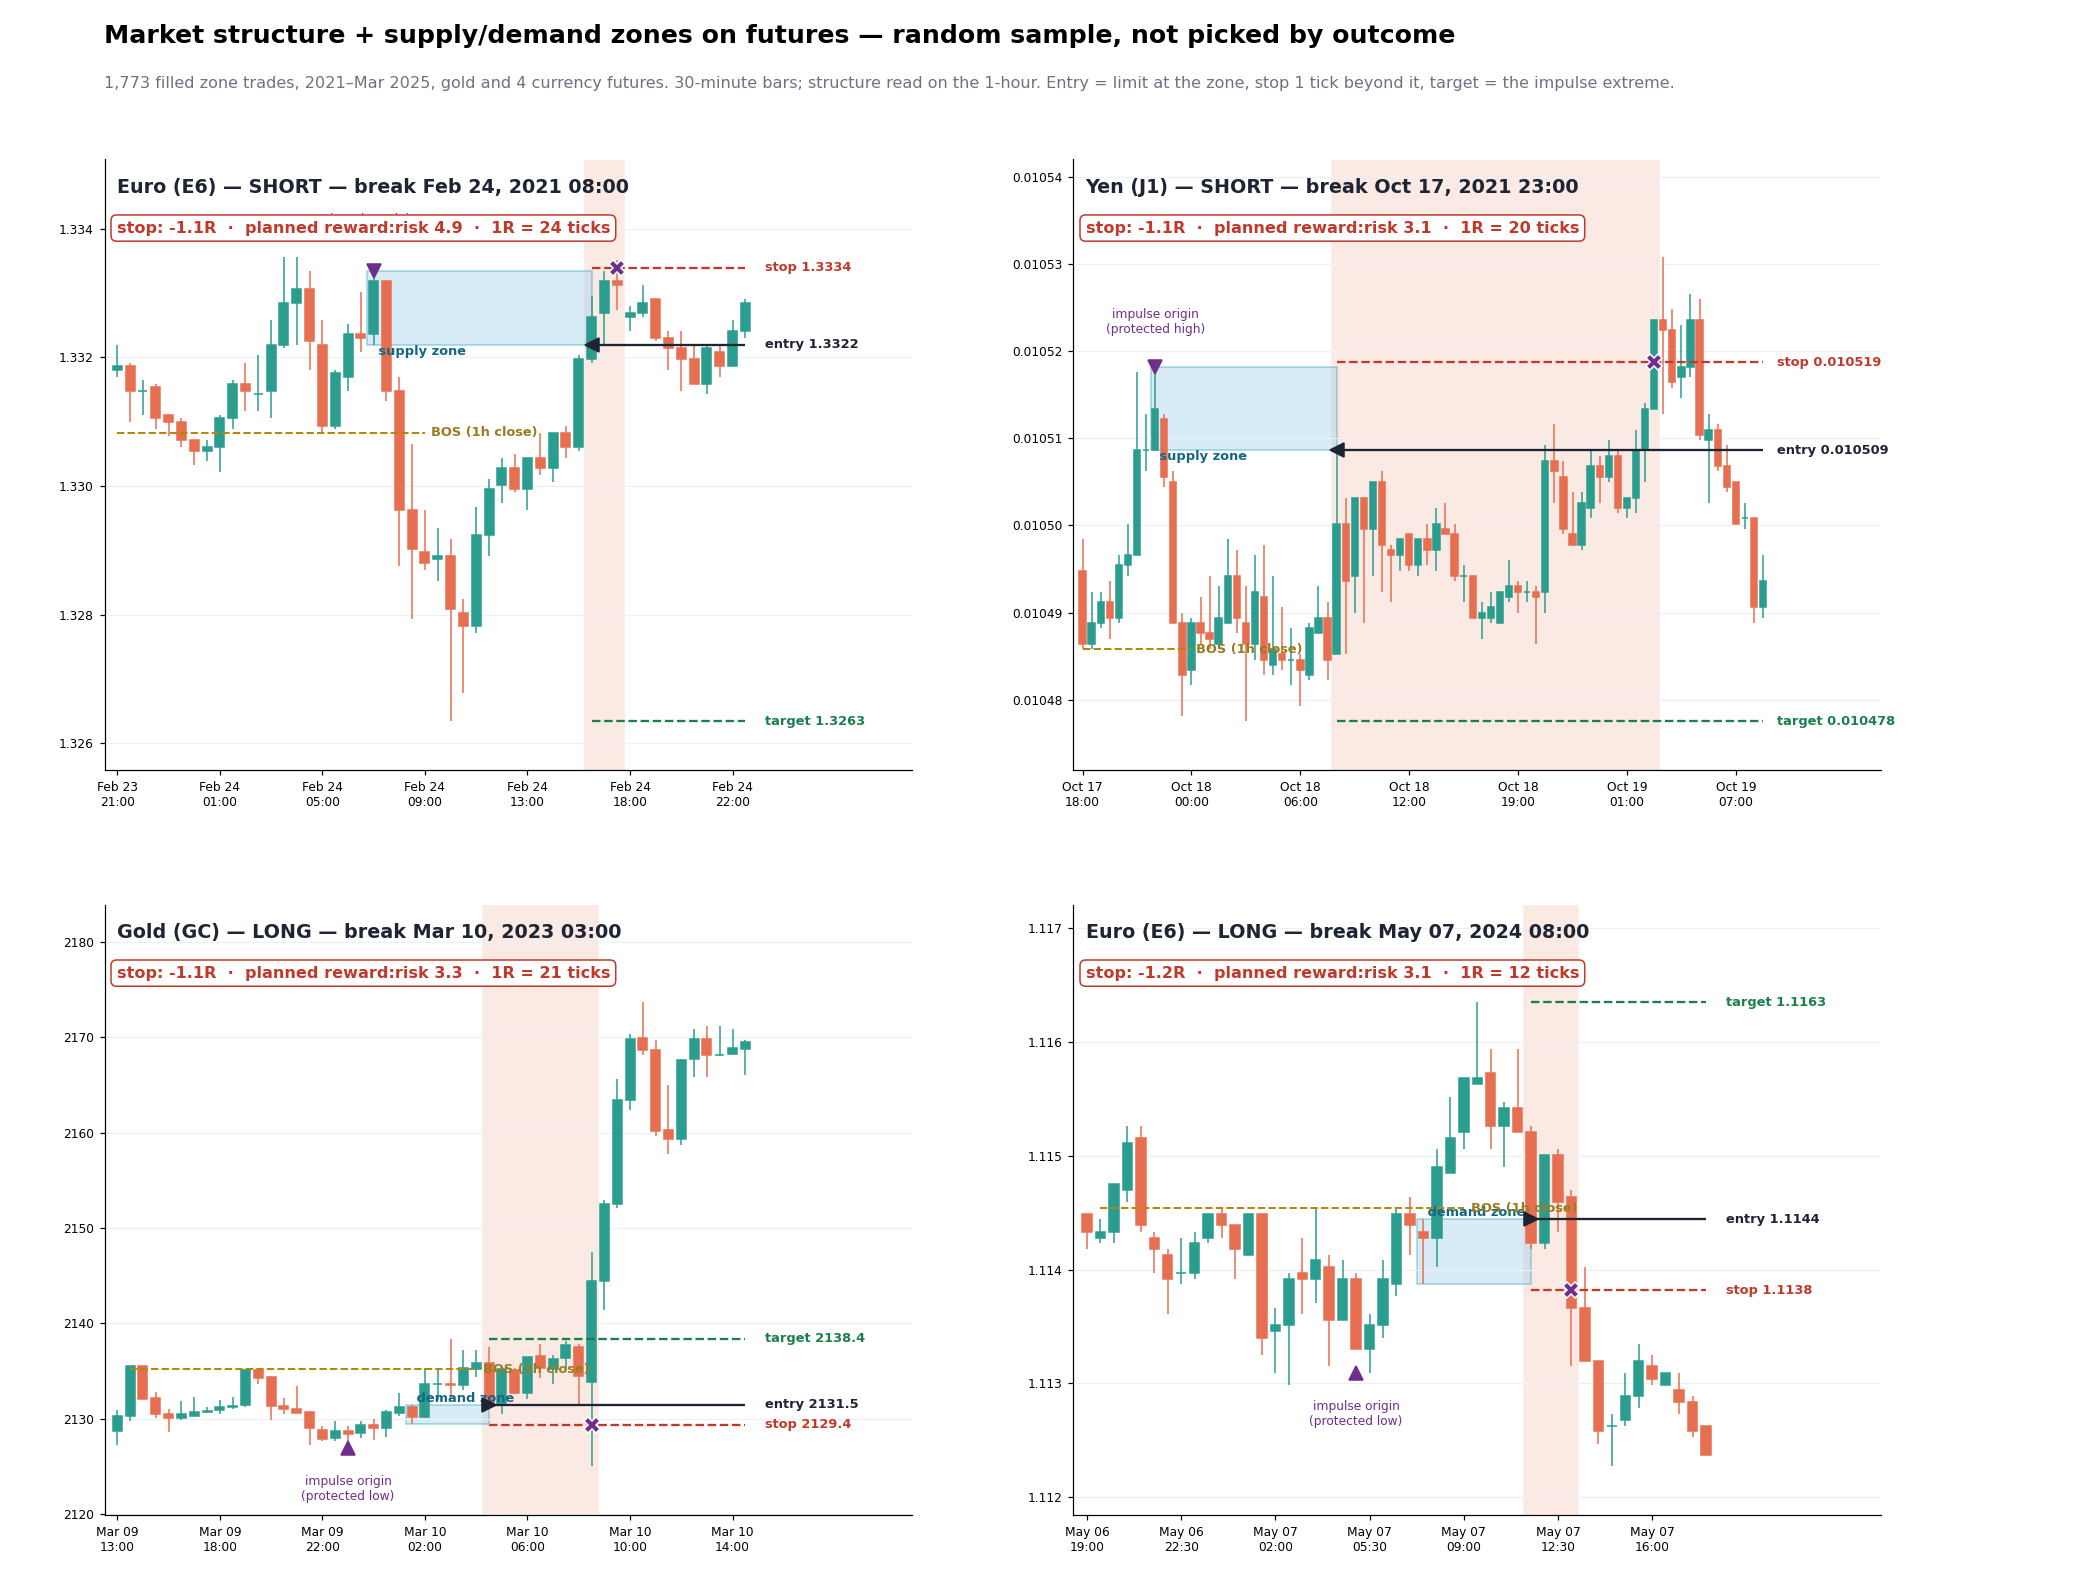
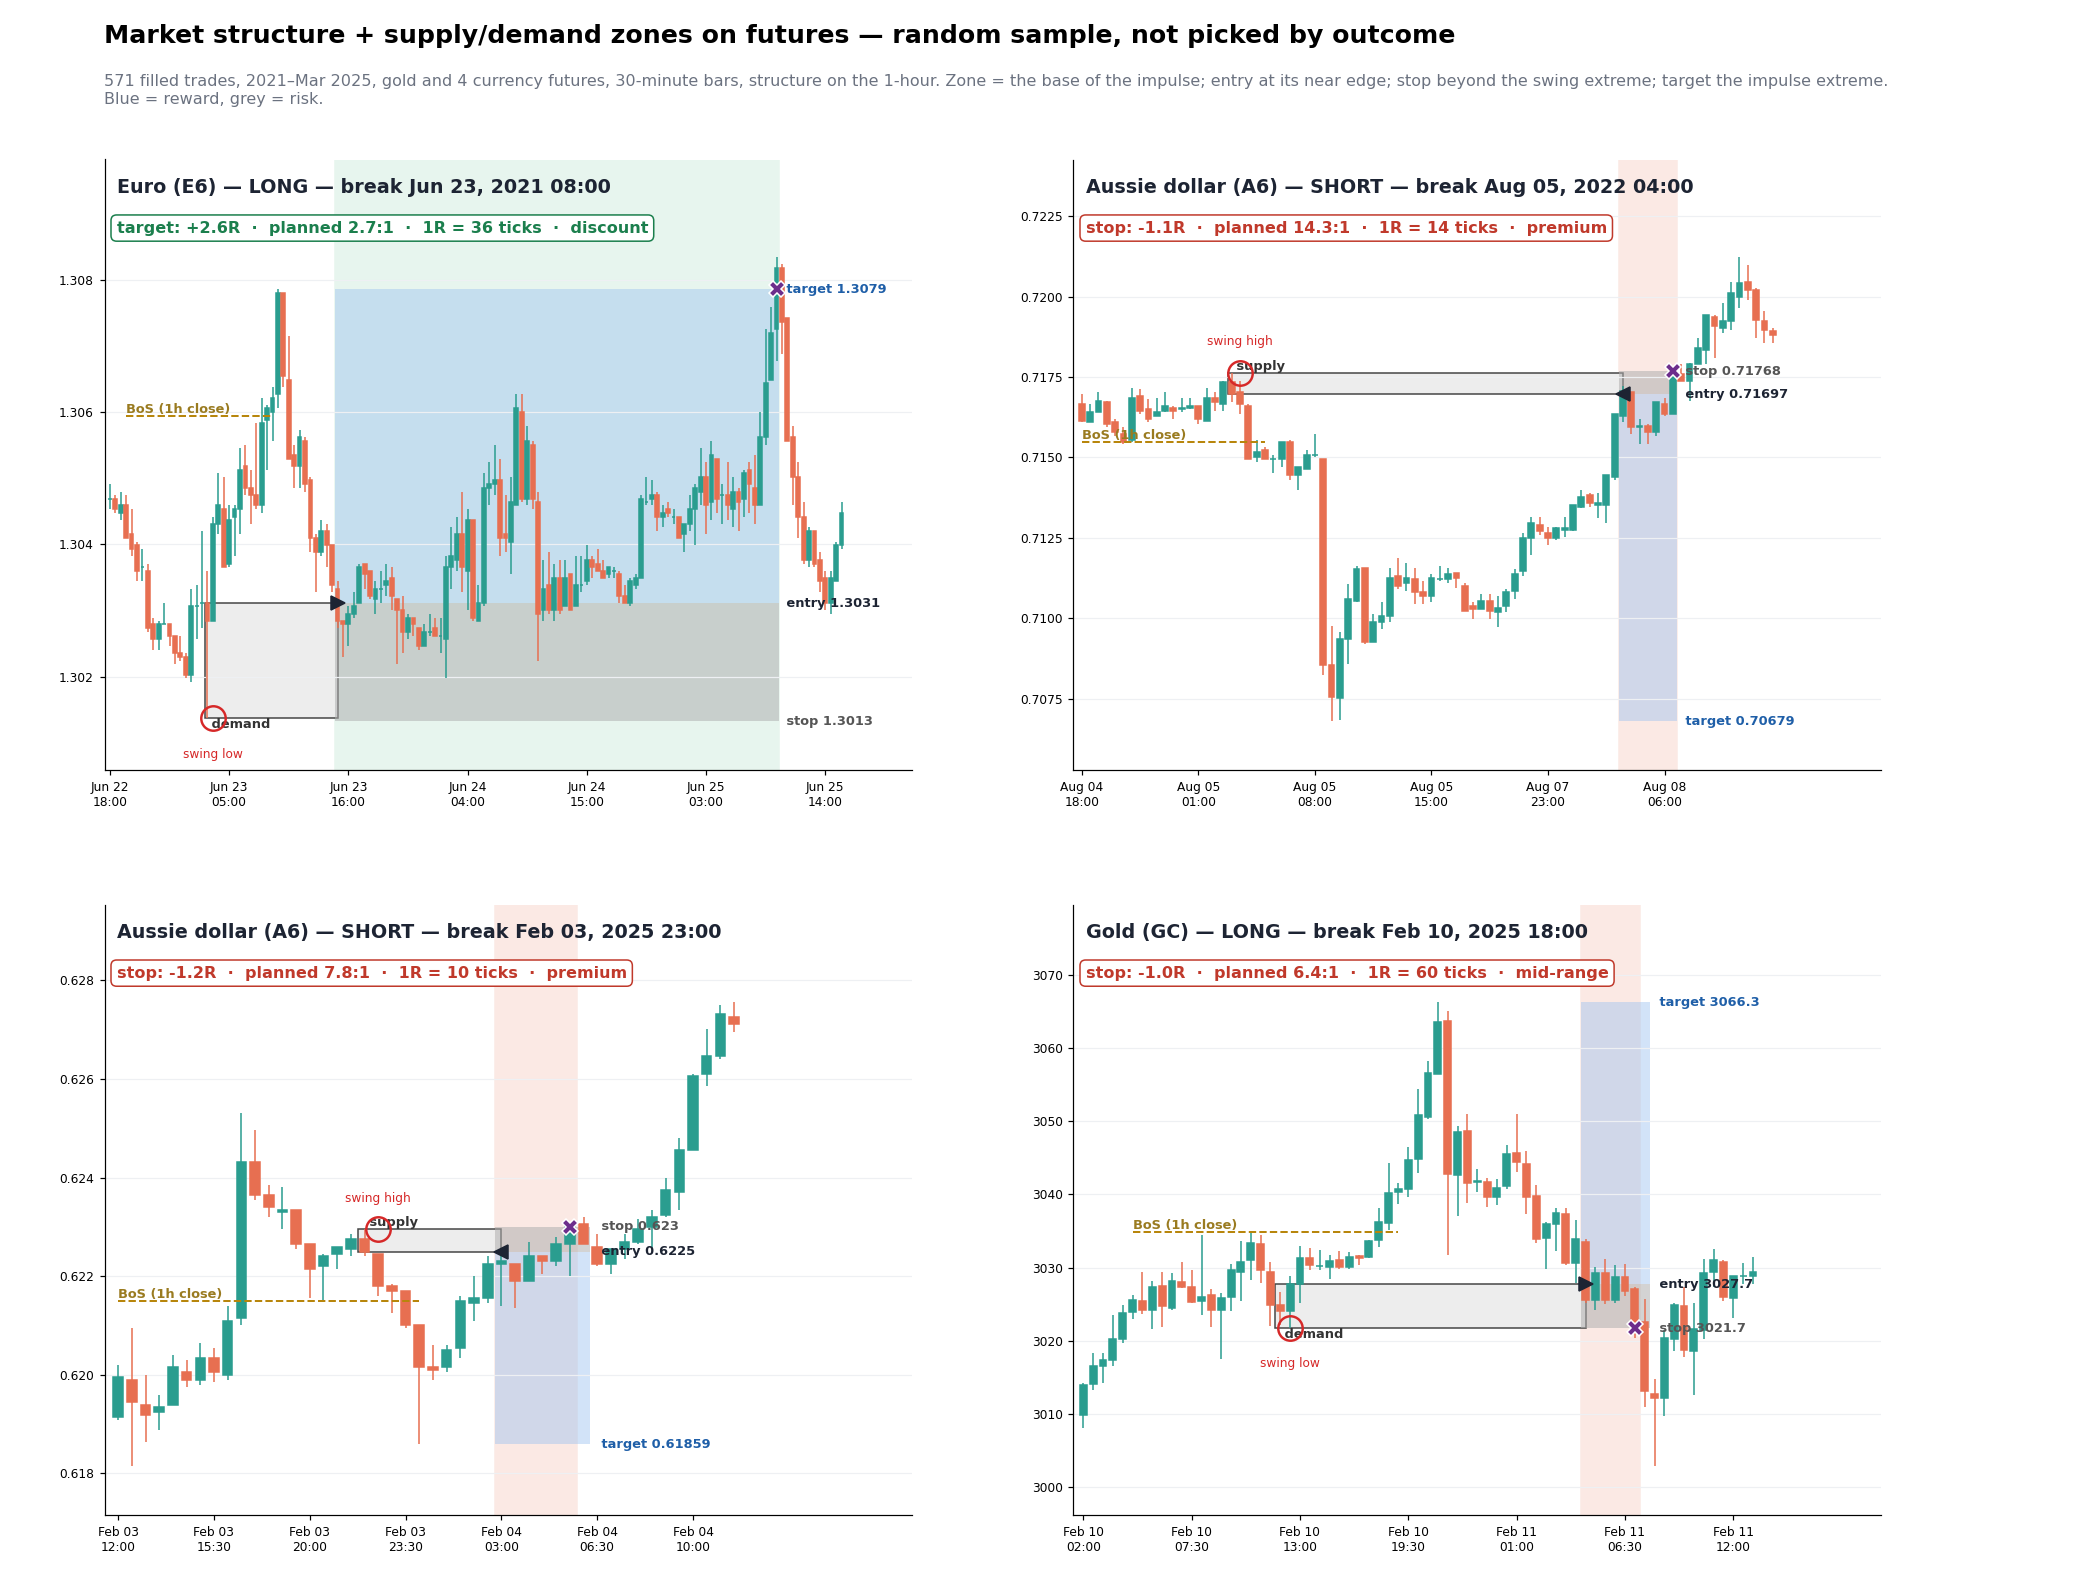
Put zones at the base of the impulse and stops beyond the swing, as in his charts
Screenshots from the user's source showed the zone is the candles at the swing
extreme that launched the impulse, boxed to the top of their bodies, with the
stop beyond that extreme and the target at the opposing structure. The first
version picked the last opposite candle anywhere inside the impulse, which put
entries mid-move with stops inside the structure.

Records his context marks (a sweep of the prior 48-hour extreme at the origin,
premium or discount) for later splits, and redraws the sample with his
position-tool style.

Claude-Session: https://claude.ai/code/session_016Vss3YrFibJsdW1CZprFVg

diff --git a/explore_fut/structure.py b/explore_fut/structure.py
@@ -8,11 +8,12 @@ York time (the missing hour is the 17:00 CME break).
              In an uptrend only a close below the protected low (the low that
              launched the last bullish impulse) flips the trend; smaller breaks are
              internal structure and ignored. Mirror for downtrends.
-  zone     : on 30-minute bars inside that impulse, the last opposite-colour candle
-             whose next candles left an unfilled gap (the 3-candle imbalance) and
-             which price has not revisited by the break
-  trade    : limit at the zone's near edge, filled on EVERY touch (5-minute bars),
-             stop 1 tick beyond the zone's far edge, target the impulse extreme at
+  zone     : the BASE of the impulse on 30-minute bars -- the candle at its swing
+             extreme plus the one before, boxed from the extreme to the top of their
+             bodies; valid if the move away left a 3-candle imbalance and price has
+             not come back into the box by the break
+  trade    : limit at the box's near edge, filled on EVERY touch (5-minute bars),
+             stop 1 tick beyond the swing extreme, target the impulse extreme at
              fill time; valid until the trend flips or 5 days pass; 10-day limit
   cost     : 2 ticks round trip
 
@@ -66,17 +67,39 @@ def structure(h1):
     return ev
 
 def zone(m30, t_from, t_to, side):
-    """last opposite-colour 30m candle in [t_from, t_to] with a 3-candle imbalance after it,
-    not revisited before t_to."""
+    """The BASE of the impulse, as in his charts: the 30-minute candle at the impulse's
+    extreme (the swing low for a long) plus the candle before it. Box = from that
+    extreme to the top of those candles' bodies. Valid only if the move away left a
+    3-candle imbalance within the next 3 candles and price has not come back into the
+    box by the break. -> (base time, (near edge, far edge)) or None"""
     w = m30.loc[t_from:t_to]
+    if len(w) < 4: return None
     o, h, l, c = w.open.values, w.high.values, w.low.values, w.close.values
-    for z in range(len(w) - 3, -1, -1):
-        opp = c[z] < o[z] if side > 0 else c[z] > o[z]
-        gap = (l[z + 2] > h[z]) if side > 0 else (h[z + 2] < l[z])
-        untouched = (l[z + 2:].min() > h[z]) if side > 0 else (h[z + 2:].max() < l[z])   # from the gap candle on
-        if opp and gap and untouched:
-            return w.index[z], (h[z], l[z]) if side > 0 else (l[z], h[z])   # (near edge, far edge)
-    return None
+    k = int(np.argmin(l)) if side > 0 else int(np.argmax(h))            # the swing extreme
+    if k + 3 >= len(w): return None
+    base = [x for x in (k - 1, k) if x >= 0]
+    if side > 0:
+        near, far = max(max(o[x], c[x]) for x in base), l[k]
+        gap = any(l[x + 2] > h[x] for x in range(k, min(k + 3, len(w) - 2)))
+        clean = l[k + 2:].min() > near
+    else:
+        near, far = min(min(o[x], c[x]) for x in base), h[k]
+        gap = any(h[x + 2] < l[x] for x in range(k, min(k + 3, len(w) - 2)))
+        clean = h[k + 2:].max() < near
+    if not (gap and clean and (near - far) * side > 0): return None
+    return w.index[base[0]], (near, far)
+
+def context(h1, j, p, side):
+    """his context marks, recorded for later splits (not filters yet):
+    swept  -- the impulse origin took out the prior 48 hours' extreme and closed back inside
+    cheap  -- the origin sits in the discount half (long) / premium half (short) of the prior 5 days' range"""
+    H, L, C = h1.high.values, h1.low.values, h1.close.values
+    lo48, hi48 = L[max(0, p - 48):p].min() if p > 0 else np.nan, H[max(0, p - 48):p].max() if p > 0 else np.nan
+    swept = (L[p] < lo48 and C[p] > lo48) if side > 0 else (H[p] > hi48 and C[p] < hi48)
+    r_lo, r_hi = L[max(0, p - 120):p + 1].min(), H[max(0, p - 120):p + 1].max()
+    mid = (r_lo + r_hi) / 2
+    cheap = (L[p] < mid) if side > 0 else (H[p] > mid)
+    return bool(swept), bool(cheap)
 
 def main():
     data = load(); print(f"loaded {len(data)} symbols  ({time.time()-t0:.0f}s)", flush=True)
@@ -97,7 +120,7 @@ def main():
             if not touch.any(): rows.append(dict(sym=s, bos=idx1[j], side=side, filled=False)); continue
             ft = touch.idxmax(); fo = after.loc[ft, "open"]
             entry = min(near, fo) if side > 0 else max(near, fo)
-            stop = far - tk if side > 0 else far + tk
+            stop = far - tk if side > 0 else far + tk                  # beyond the swing extreme itself
             R = (entry - stop) * side
             ext = m5.loc[idx1[p]:ft]; target = ext.high.max() if side > 0 else ext.low.min()
             path = m5.loc[ft:ft + pd.Timedelta("10D")]
@@ -107,7 +130,8 @@ def main():
                     px, how, xt = (min(stop, b.open) if side > 0 else max(stop, b.open)), "stop", t_; break
                 if t_ > ft and ((b.high >= target) if side > 0 else (b.low <= target)):
                     px, how, xt = target, "target", t_; break
-            rows.append(dict(sym=s, bos=idx1[j], side=side, filled=True, zone_t=zt, near=near, far=far, fill_t=ft,
+            swept, cheap = context(h1, j, p, side)
+            rows.append(dict(sym=s, bos=idx1[j], side=side, filled=True, zone_t=zt, near=near, far=far, fill_t=ft, swept=swept, cheap=cheap,
                              entry=entry, stop=stop, target=target, R_ticks=R / tk, rr=(target - entry) * side / R,
                              exit_t=xt, how=how, R=((px - entry) * side - 2 * tk) / R, origin=idx1[p], protected=prot, level=lvl))
         print(f"  {s}: {len(ev)} breaks of structure, {sum(1 for r in rows if r['sym']==s and r['filled'])} zone fills  ({time.time()-t0:.0f}s)", flush=True)

diff --git a/explore_fut/render.py b/explore_fut/render.py
@@ -29,27 +29,31 @@ for n, ev in enumerate(pick.itertuples()):
     ax.axvspan(X(ev.fill_t) - .5, X(ev.exit_t) + .5, color="#e7f5ee" if win else "#fbe9e4", zorder=0)
     zx0, zx1 = X(ev.zone_t), X(ev.fill_t)
     lo_, hi_ = sorted([ev.near, ev.far])
-    ax.add_patch(Rectangle((zx0 - .5, lo_), max(zx1 - zx0, 1) + .5, hi_ - lo_, facecolor="#8ecae6", alpha=.35, edgecolor="#219ebc", lw=1.2, zorder=1))
-    ax.text(zx0, hi_ if side > 0 else lo_, " demand zone" if side > 0 else " supply zone", fontsize=8.5, color="#126782",
-            va="bottom" if side > 0 else "top", fontweight="bold")
+    ax.add_patch(Rectangle((zx0 - .5, lo_), max(zx1 - zx0, 1) + .5, hi_ - lo_, facecolor="#ececec", alpha=.9, edgecolor="#333", lw=1, zorder=1))
+    ax.text(zx0, lo_ if side > 0 else hi_, " demand" if side > 0 else " supply", fontsize=8.5, color="#333",
+            va="top" if side > 0 else "bottom", fontweight="bold")
     bx = X(ev.bos)
     ax.hlines(ev.level, max(0, bx - 25), bx + 2, color="#b8860b", lw=1.3, ls="--", zorder=4)
-    ax.text(bx + 2.5, ev.level, "BOS (1h close)", fontsize=8.5, color="#9a7b20", va="center", fontweight="bold")
-    ax.plot(X(ev.origin), ev.protected, marker="^" if side > 0 else "v", color="#6d2e8c", ms=9, zorder=5)
-    ax.annotate("impulse origin\n(protected " + ("low" if side > 0 else "high") + ")", (X(ev.origin), ev.protected),
-                xytext=(0, -34 if side > 0 else 22), textcoords="offset points", ha="center", fontsize=8, color="#6d2e8c")
+    ax.text(max(0, bx - 25), ev.level, "BoS (1h close) ", fontsize=8.5, color="#9a7b20", va="bottom", fontweight="bold")
+    ext_x = X(ev.zone_t) + 1
+    ax.plot(ext_x, ev.far, "o", ms=16, mfc="none", mec="#d62828", mew=1.6, zorder=6)
+    ax.annotate(("swept low" if ev.swept else "swing low") if side > 0 else ("swept high" if ev.swept else "swing high"),
+                (ext_x, ev.far), xytext=(0, -26 if side > 0 else 18), textcoords="offset points", ha="center", fontsize=8, color="#d62828")
     fx, xx = X(ev.fill_t), X(ev.exit_t)
-    for y, col, lab in ((ev.target, "#1b7f4d", f"target {ev.target:.5g}"), (ev.entry, INK, f"entry {ev.entry:.5g}"),
-                        (ev.stop, "#c0392b", f"stop {ev.stop:.5g}")):
-        ax.hlines(y, fx, len(w) - 1, color=col, lw=1.5, ls="-" if col == INK else "--", zorder=4)
-        ax.text(len(w) + .5, y, lab, fontsize=8.5, color=col, va="center", fontweight="bold")
+    span = max(xx - fx, 6) + 1
+    ax.add_patch(Rectangle((fx - .5, min(ev.entry, ev.target)), span, abs(ev.target - ev.entry), facecolor="#9dc3f0", alpha=.45, lw=0, zorder=1))
+    ax.add_patch(Rectangle((fx - .5, min(ev.entry, ev.stop)), span, abs(ev.stop - ev.entry), facecolor="#b0b0b0", alpha=.55, lw=0, zorder=1))
+    for y, col, lab in ((ev.target, "#1f5fa8", f"target {ev.target:.5g}"), (ev.entry, INK, f"entry {ev.entry:.5g}"),
+                        (ev.stop, "#555", f"stop {ev.stop:.5g}")):
+        ax.text(fx + span, y, " " + lab, fontsize=8.5, color=col, va="center", fontweight="bold")
     ax.plot(fx, ev.entry, marker=">" if side > 0 else "<", color=INK, ms=9, zorder=6)
-    ax.plot(xx, ev.entry + side * (ev.R) * (ev.entry - ev.stop) * side if False else (ev.stop if ev.how == "stop" else (ev.target if ev.how == "target" else w.close.iloc[min(xx, len(w)-1)])),
+    ax.plot(xx, ev.stop if ev.how == "stop" else (ev.target if ev.how == "target" else w.close.iloc[min(xx, len(w)-1)]),
             marker="X", color="#6d2e8c", ms=11, zorder=7, mec="white")
     col = "#1b7f4d" if win else "#c0392b"
     ax.text(.015, .97, f"{NAME[ev.sym]} — {'LONG' if side > 0 else 'SHORT'} — break {ev.bos:%b %d, %Y %H:%M}", transform=ax.transAxes,
             fontsize=12.5, fontweight="bold", va="top", color=INK)
-    ax.text(.015, .9, f"{ev.how}: {ev.R:+.1f}R  ·  planned reward:risk {ev.rr:.1f}  ·  1R = {ev.R_ticks:.0f} ticks", transform=ax.transAxes,
+    ax.text(.015, .9, f"{ev.how}: {ev.R:+.1f}R  ·  planned {ev.rr:.1f}:1  ·  1R = {ev.R_ticks:.0f} ticks  ·  "
+            f"{'discount' if (ev.cheap and side > 0) else ('premium' if (ev.cheap and side < 0) else 'mid-range')}", transform=ax.transAxes,
             fontsize=10.5, fontweight="bold", va="top", color=col, bbox=dict(boxstyle="round,pad=.35", fc="white", ec=col))
     ticks = list(range(0, len(w), max(1, len(w) // 6)))
     ax.set_xticks(ticks); ax.set_xticklabels([w.index[i].strftime("%b %d\n%H:%M") for i in ticks], fontsize=8)
@@ -59,6 +63,6 @@ for n, ev in enumerate(pick.itertuples()):
     ax.set_ylim(ymin - pad * 1.5, ymax + pad * 3)
 fig.suptitle("Market structure + supply/demand zones on futures — random sample, not picked by outcome", fontsize=16.5,
              fontweight="bold", x=.05, ha="left", y=.985)
-fig.text(.05, .945, f"{len(F):,} filled zone trades, 2021–Mar 2025, gold and 4 currency futures. 30-minute bars; structure read on the 1-hour. "
-         "Entry = limit at the zone, stop 1 tick beyond it, target = the impulse extreme.", fontsize=10.5, ha="left", color=MUTE)
+fig.text(.05, .935, f"{len(F):,} filled trades, 2021–Mar 2025, gold and 4 currency futures, 30-minute bars, structure on the 1-hour. Zone = the base of the impulse; "
+         "entry at its near edge; stop beyond the swing extreme; target the impulse extreme.\nBlue = reward, grey = risk.", fontsize=10.5, ha="left", color=MUTE)
 fig.savefig("explore_fut/figures/sample_zones.png", dpi=110); print("explore_fut/figures/sample_zones.png")
